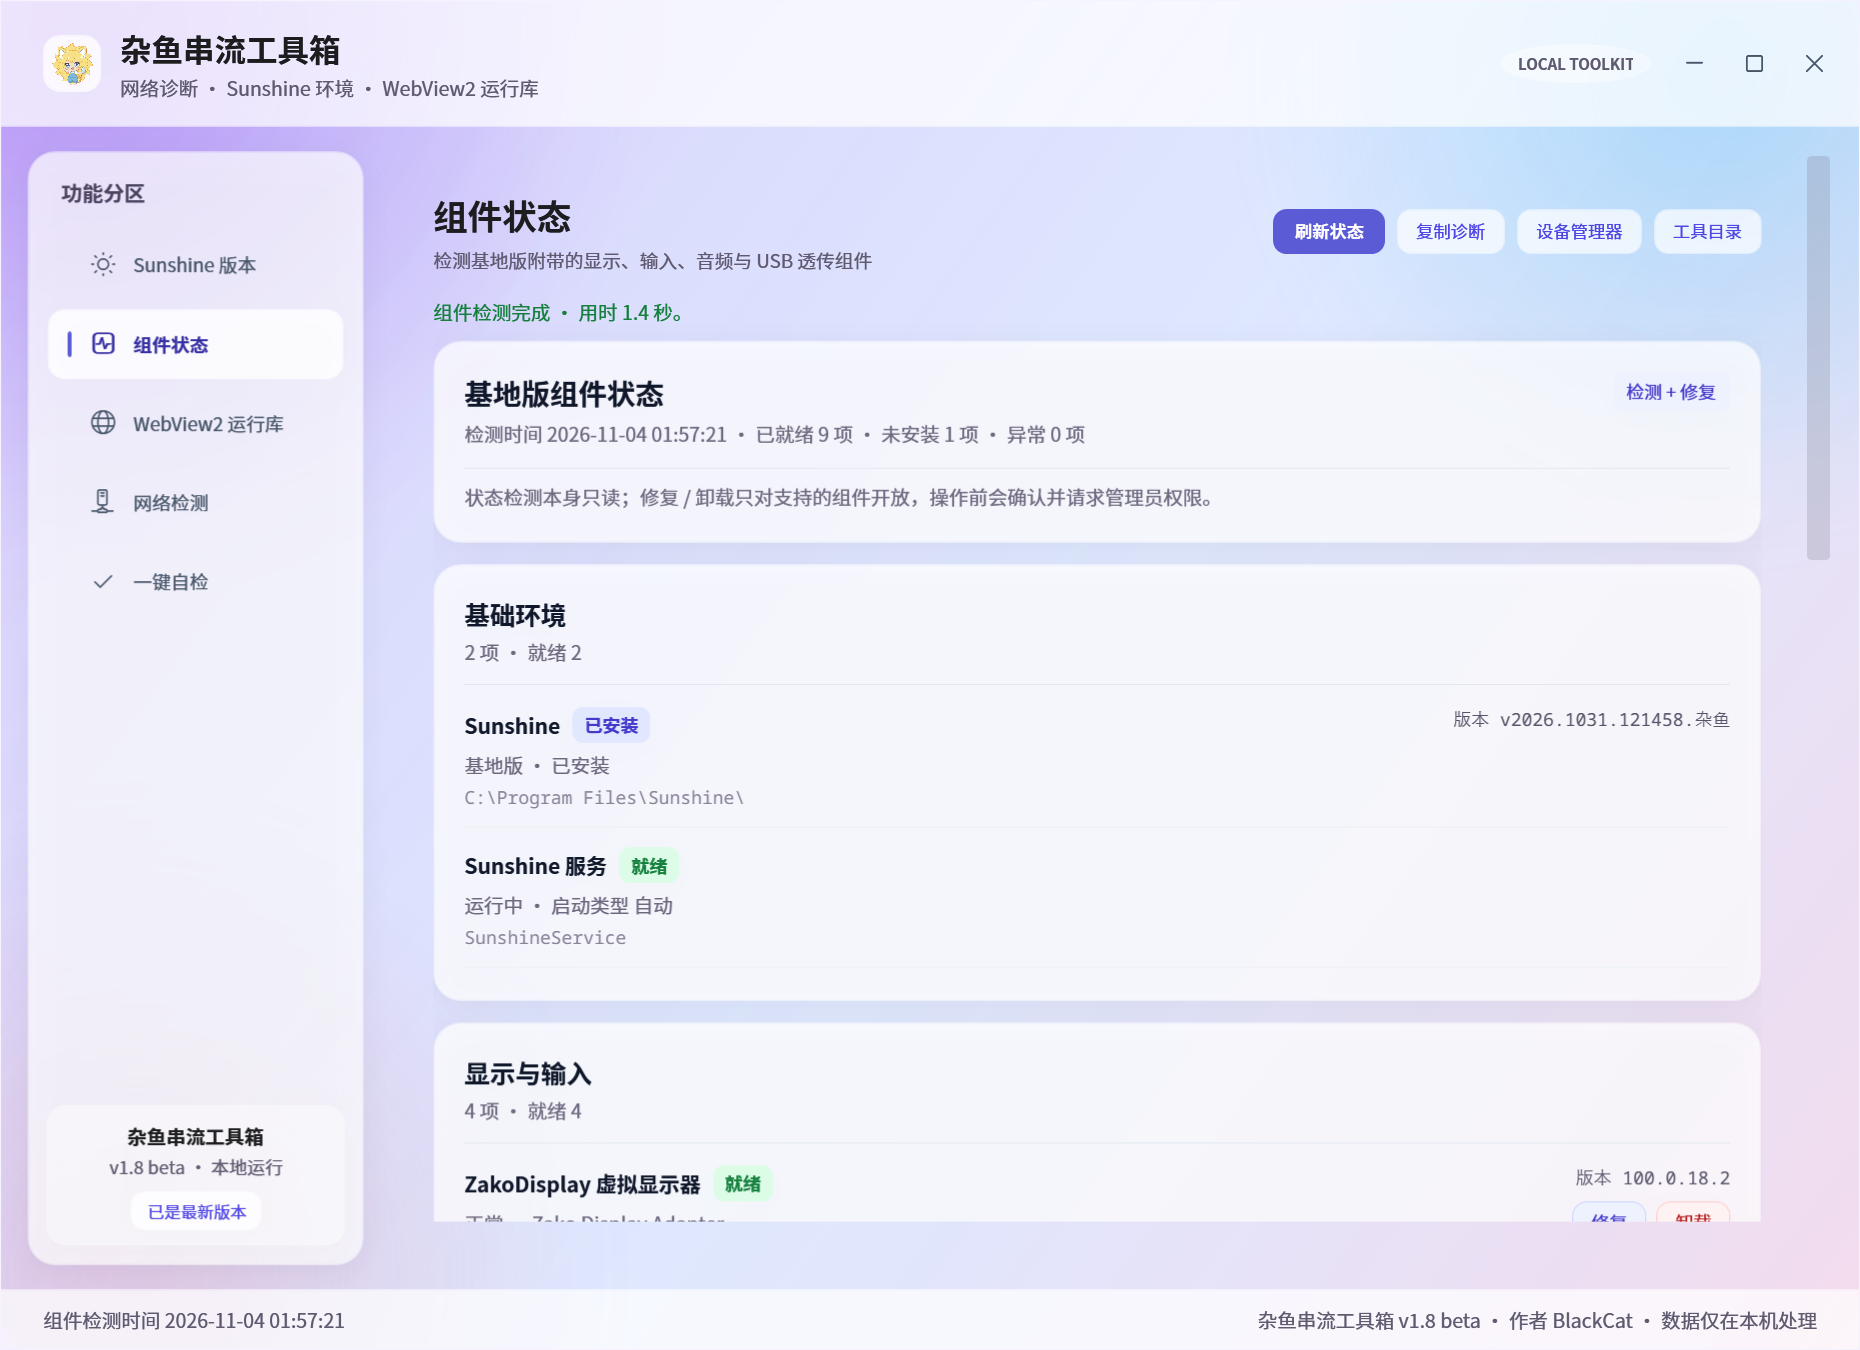
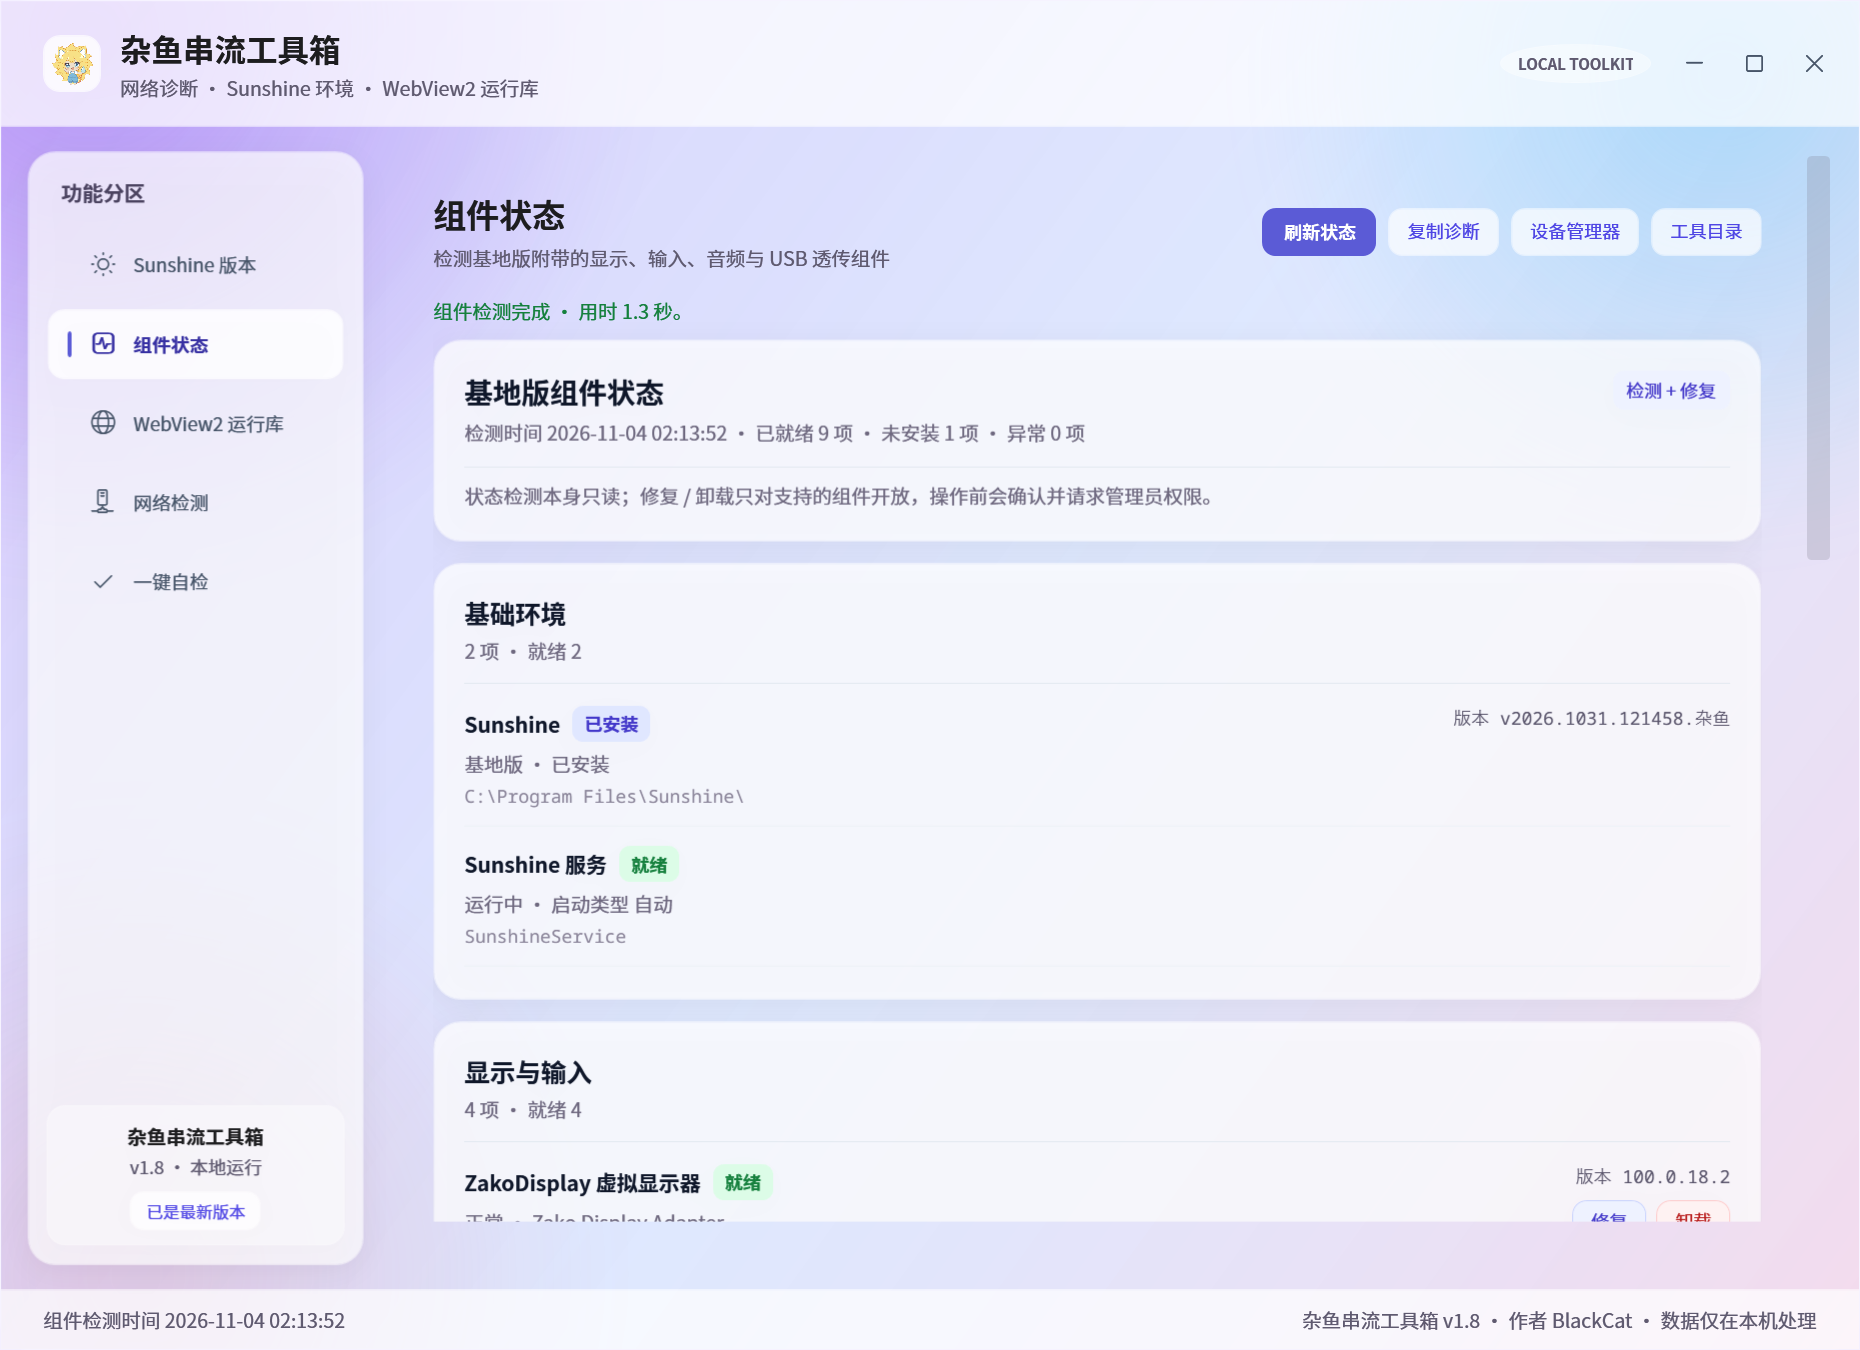
release: v1.8 正式版

diff --git a/src/Zayu.App/MainWindow.xaml.cs b/src/Zayu.App/MainWindow.xaml.cs
@@ -74,7 +74,7 @@ namespace Zayu.App
             InitializeComponent();
             RevealToggle.Content = "显示 IP";
             RevealToggle.Foreground = UiPalette.IndigoFg;
-            AppVersionText.Text = "v" + GetAppVersion() + " beta · 本地运行";
+            AppVersionText.Text = "v" + GetAppVersion() + " · 本地运行";
             UpdatePageVisibility(NavList.SelectedIndex);
             ResetSelfCheckState();
             ResetComponentStatusState();
@@ -83,7 +83,7 @@ namespace Zayu.App
 
             Version appVersion = typeof(MainWindow).Assembly.GetName().Version;
             VersionText.Text = "杂鱼串流工具箱 v" + appVersion.Major + "." + appVersion.Minor
-                + " beta · 作者 BlackCat · 数据仅在本机处理";
+                + " · 作者 BlackCat · 数据仅在本机处理";
 
             Loaded += MainWindow_Loaded;
             Closed += MainWindow_Closed;

diff --git a/GITHUB_PUBLISH.md b/GITHUB_PUBLISH.md
@@ -17,8 +17,8 @@ dist\杂鱼串流工具箱.exe
 ## 创建 Release
 
 1. 在仓库页面打开 **Releases → Draft a new release**；
-2. Tag 填 `v1.8-beta`，Target 选 `main`；
-3. 标题填 `杂鱼串流工具箱 v1.8 beta`；
+2. Tag 填 `v1.8`，Target 选 `main`；
+3. 标题填 `杂鱼串流工具箱 v1.8`；
 4. 把 `dist\杂鱼串流工具箱.exe` 拖入附件；
 5. 更新说明直接从 `RELEASE_NOTES.md` 复制；
 6. 发布。

diff --git a/README.md b/README.md
@@ -1,6 +1,6 @@
 # 杂鱼串流工具箱
 
-> 面向串流与网络排查的 Windows 小工具 · v1.8 beta · 作者 BlackCat
+> 面向串流与网络排查的 Windows 小工具 · v1.8 · 作者 BlackCat
 
 杂鱼串流工具箱把「查看 IP、判断 NAT、测试 P2P 连通性、检查 Sunshine 环境和组件、一键自检」放在一个界面里，专门解决串流前的网络与环境排查。
 

diff --git a/CHANGELOG.md b/CHANGELOG.md
@@ -1,6 +1,6 @@
 # 更新日志
 
-## v1.8 beta
+## v1.8
 
 - 新增组件状态页，按基础环境、显示与输入、音频、USB 透传、画质增强分组展示，并支持修复 / 卸载。
 - 一键自检增加摘要卡片、可选组件信息和更清晰的报告排版。

diff --git a/RELEASE_NOTES.md b/RELEASE_NOTES.md
@@ -1,4 +1,4 @@
-# 杂鱼串流工具箱 v1.8 beta
+# 杂鱼串流工具箱 v1.8
 
 本次更新集中改善组件检查、自检报告和窗口体验。
 
